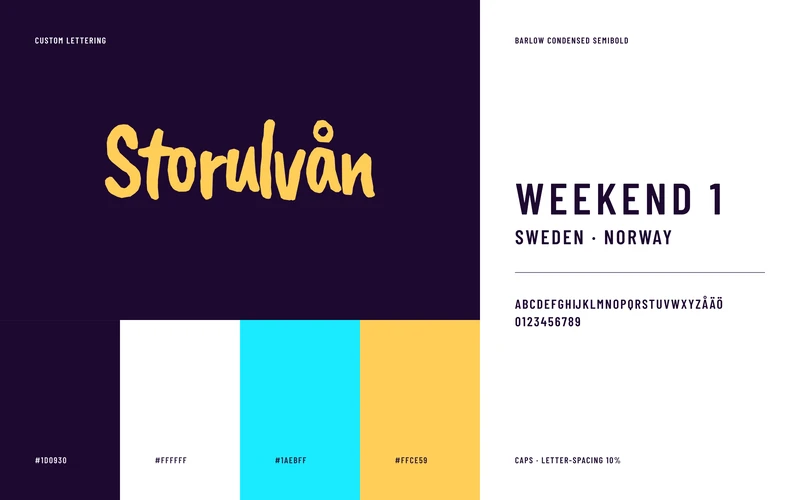
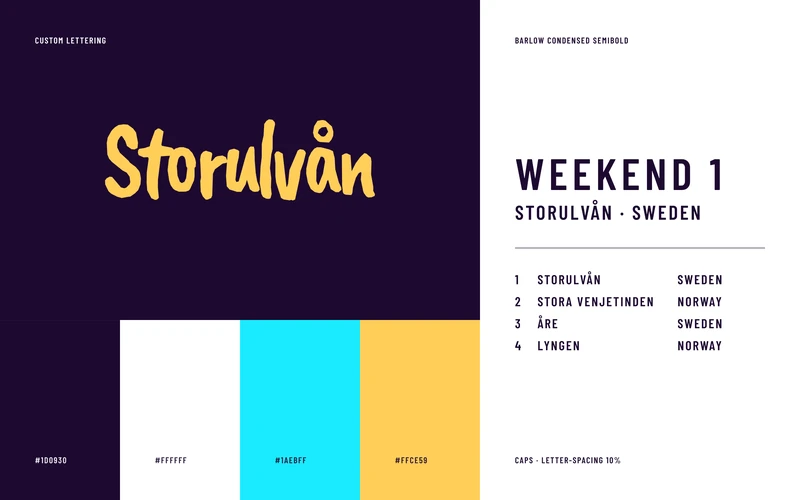
Weekend Warriors: chapter list instead of the alphabet in the identity image
Claude-Session: https://claude.ai/code/session_01T8AAM769pNUjzneeyTgJVR

Changed region(s): [[0.625, 0.3, 0.9375, 0.51], [0.625, 0.54, 0.9062, 0.72]]

diff --git a/docs/weekend-warriors/index.html b/docs/weekend-warriors/index.html
@@ -70,7 +70,7 @@
 </section>
 
 <div class="c-05b86e">
-<div data-rv="1" data-lb="1" tabindex="0" role="button" aria-label="Enlarge image" class="rv c-clip"><img class="zm" src="../assets/ww-identity-1400.webp?v=dbde83b6" srcset="../assets/ww-identity-800.webp?v=c51978e6 800w, ../assets/ww-identity-1400.webp?v=dbde83b6 1400w, ../assets/ww-identity.webp?v=03ae3769 2400w" sizes="(min-width: 1440px) 1200px, 92vw" data-lbsrc="../assets/ww-identity.webp?v=03ae3769" fetchpriority="high" decoding="async" alt="The hand-lettered chapter title Storulvån in yellow on dark purple, above the palette of dark purple, white, cyan and yellow, next to a Barlow Condensed type specimen" width="2400" height="1500"></div>
+<div data-rv="1" data-lb="1" tabindex="0" role="button" aria-label="Enlarge image" class="rv c-clip"><img class="zm" src="../assets/ww-identity-1400.webp?v=0a61970f" srcset="../assets/ww-identity-800.webp?v=b41d3c9e 800w, ../assets/ww-identity-1400.webp?v=0a61970f 1400w, ../assets/ww-identity.webp?v=7970d844 2400w" sizes="(min-width: 1440px) 1200px, 92vw" data-lbsrc="../assets/ww-identity.webp?v=7970d844" fetchpriority="high" decoding="async" alt="The hand-lettered chapter title Storulvån in yellow on dark purple, above the palette of dark purple, white, cyan and yellow, next to the four chapters set in Barlow Condensed" width="2400" height="1500"></div>
 <div data-rv="2" data-lb="1" tabindex="0" role="button" aria-label="Enlarge image" class="rv c-clip"><div class="zm cal"><img src="../assets/ww-calendar-1400.webp?v=369f0d28" srcset="../assets/ww-calendar-800.webp?v=a25394d1 800w, ../assets/ww-calendar-1400.webp?v=369f0d28 1400w, ../assets/ww-calendar.webp?v=6fdddc9b 2400w" sizes="(min-width: 1440px) 1200px, 92vw" loading="lazy" decoding="async" data-lbsrc="../assets/ww-calendar-full.webp?v=f2851784" alt="Four skiers on a snowy ridge under the wordmark and a week calendar where Monday to Friday are crossed out and Saturday and Sunday show a skier" width="2400" height="1500"><div aria-hidden="true" class="mks"><svg class="mk x c-a84d3f" viewBox="0 0 32.82 32.82"><path d="M27.35 32.82 16.41 21.88 5.47 32.82 0 27.35l10.94-10.94L0 5.47 5.47 0l10.94 10.94L27.35 0l5.47 5.47-10.94 10.94 10.94 10.94z"/></svg><svg class="mk x c-4c1ccc" viewBox="0 0 32.82 32.82"><path d="M27.35 32.82 16.41 21.88 5.47 32.82 0 27.35l10.94-10.94L0 5.47 5.47 0l10.94 10.94L27.35 0l5.47 5.47-10.94 10.94 10.94 10.94z"/></svg><svg class="mk x c-1012cb" viewBox="0 0 32.82 32.82"><path d="M27.35 32.82 16.41 21.88 5.47 32.82 0 27.35l10.94-10.94L0 5.47 5.47 0l10.94 10.94L27.35 0l5.47 5.47-10.94 10.94 10.94 10.94z"/></svg><svg class="mk x c-6e73de" viewBox="0 0 32.82 32.82"><path d="M27.35 32.82 16.41 21.88 5.47 32.82 0 27.35l10.94-10.94L0 5.47 5.47 0l10.94 10.94L27.35 0l5.47 5.47-10.94 10.94 10.94 10.94z"/></svg><svg class="mk x c-4a1479" viewBox="0 0 32.82 32.82"><path d="M27.35 32.82 16.41 21.88 5.47 32.82 0 27.35l10.94-10.94L0 5.47 5.47 0l10.94 10.94L27.35 0l5.47 5.47-10.94 10.94 10.94 10.94z"/></svg><svg class="mk sk c-b07650" viewBox="0 0 160 160"><image href="../assets/ww-skier.png?v=4b0fe100" width="160" height="160"></image></svg><svg class="mk sk c-658f2b" viewBox="0 0 160 160"><image href="../assets/ww-skier.png?v=4b0fe100" width="160" height="160"></image></svg></div></div></div>
 <div data-rv="3" data-lb="1" tabindex="0" role="button" aria-label="Enlarge film" class="rv c-clip"><video class="zm" data-vid="1" src="../assets/ww-chapter.mp4?v=0569e0cd" poster="../assets/ww-chapter-poster.jpg?v=b5629c20" width="1920" height="1200" muted loop playsinline preload="metadata" aria-label="The chapter title Weekend 2, Stora Venjetinden, Norway, writing itself over snowy peaks and clouds"></video></div>
 </div>

diff --git a/site/pages/ww.html b/site/pages/ww.html
@@ -8,7 +8,7 @@
 </section>
 
 <div style="margin: 0 0 clamp(96px, 11vw, 168px); display: flex; flex-direction: column; gap: clamp(20px, 2.4vw, 32px)">
-@IMG{1|ww-identity.png|The hand-lettered chapter title Storulvån in yellow on dark purple, above the palette of dark purple, white, cyan and yellow, next to a Barlow Condensed type specimen|2400|1500}
+@IMG{1|ww-identity.png|The hand-lettered chapter title Storulvån in yellow on dark purple, above the palette of dark purple, white, cyan and yellow, next to the four chapters set in Barlow Condensed|2400|1500}
 <div @RV{2}><div class="zm cal"><img src="[[A]]ww-calendar.jpg" data-lbsrc="[[A]]ww-calendar-full.jpg" alt="Four skiers on a snowy ridge under the wordmark and a week calendar where Monday to Friday are crossed out and Saturday and Sunday show a skier" width="2400" height="1500"><div aria-hidden="true" class="mks"><svg class="mk x" style="left: 37.325%" viewBox="0 0 32.82 32.82"><path d="M27.35 32.82 16.41 21.88 5.47 32.82 0 27.35l10.94-10.94L0 5.47 5.47 0l10.94 10.94L27.35 0l5.47 5.47-10.94 10.94 10.94 10.94z"/></svg><svg class="mk x" style="left: 41.416%" viewBox="0 0 32.82 32.82"><path d="M27.35 32.82 16.41 21.88 5.47 32.82 0 27.35l10.94-10.94L0 5.47 5.47 0l10.94 10.94L27.35 0l5.47 5.47-10.94 10.94 10.94 10.94z"/></svg><svg class="mk x" style="left: 45.856%" viewBox="0 0 32.82 32.82"><path d="M27.35 32.82 16.41 21.88 5.47 32.82 0 27.35l10.94-10.94L0 5.47 5.47 0l10.94 10.94L27.35 0l5.47 5.47-10.94 10.94 10.94 10.94z"/></svg><svg class="mk x" style="left: 49.881%" viewBox="0 0 32.82 32.82"><path d="M27.35 32.82 16.41 21.88 5.47 32.82 0 27.35l10.94-10.94L0 5.47 5.47 0l10.94 10.94L27.35 0l5.47 5.47-10.94 10.94 10.94 10.94z"/></svg><svg class="mk x" style="left: 54.116%" viewBox="0 0 32.82 32.82"><path d="M27.35 32.82 16.41 21.88 5.47 32.82 0 27.35l10.94-10.94L0 5.47 5.47 0l10.94 10.94L27.35 0l5.47 5.47-10.94 10.94 10.94 10.94z"/></svg><svg class="mk sk" style="left: 58.339%" viewBox="0 0 160 160"><image href="[[A]]ww-skier.png" width="160" height="160"></image></svg><svg class="mk sk" style="left: 62.573%" viewBox="0 0 160 160"><image href="[[A]]ww-skier.png" width="160" height="160"></image></svg></div></div></div>
 <div data-rv="3" data-lb="1" tabindex="0" role="button" aria-label="Enlarge film" class="rv" style="overflow: hidden"><video class="zm" data-vid="1" src="[[A]]ww-chapter.mp4" poster="[[A]]ww-chapter-poster.jpg" width="1920" height="1200" muted loop playsinline preload="metadata" aria-label="The chapter title Weekend 2, Stora Venjetinden, Norway, writing itself over snowy peaks and clouds"></video></div>
 </div>

diff --git a/site/build.py b/site/build.py
@@ -29,7 +29,7 @@ ASSETS = {
     "3bca89cef68a116650a6c5ef6770cb4f": "tink-icons.jpg", "c1f94b98ab6d53cafc91e170a44835eb": "tink-dot-a.png",
     "f7b58a42b01e4846ca3732440ee7e58e": "tink-dot-b.png", "700febebcb68be373cda9b187586076e": "tink-onboarding.jpg", "4f6ed7b8c64d933afb03fb554d2835aa": "tink-onboarding.jpg",
     "1985dbdba6e3530443f5df8e166f4dcd": "tink-screens.jpg", "8b01cacb59ff02a59f0974ee3934b25e": "tink-screens.jpg", "ac8a5f15eb231d84428fc1641a1aa236": "tink-dark.jpg",
-    "f414974410411ce49392f4c3414bf53b": "ww-identity.png", "efab65d4d433ed4ba4f636274f9a9e99": "ww-calendar.jpg",
+    "bbdb59b438497957919c29f42e5a0686": "ww-identity.png", "efab65d4d433ed4ba4f636274f9a9e99": "ww-calendar.jpg",
     "d7569c8d5cc400fd7471c27a4c2b9144": "ww-calendar-full.jpg", "dd36df8f9b4a2f8280afd473ea40f9b3": "ww-skier.png",
     "2788faab4aa5f42e2f2ca72c1315c161": "ww-calendar.jpg", "23288ad0ee329575c8589474e7c30676": "ww-calendar-full.jpg",
     "3b0aba6df729159ddd92d895620fe94c": "ww-chapter.mp4", "27f8f596ff1426df0556b45195ddebe2": "ww-chapter-poster.jpg",
